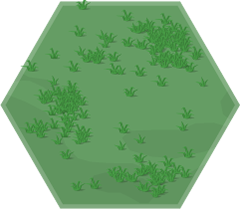
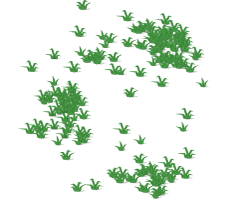
split grass

diff --git a/js/pixi.js b/js/pixi.js
@@ -63,6 +63,7 @@ loader
 		{name:'tile_forest_2', url:'img/tile_forest_2.png'},
 		{name:'tile_forest_3', url:'img/tile_forest_3.png'},
 		// {name:'tile_forest_4', url:'img/tile_forest_4.png'},
+		{name:'tile_grass_base', url:'img/tile_grass_base.png'},
 		{name:'tile_grass_1', url:'img/tile_grass_1.png'},
 		{name:'tile_grass_2', url:'img/tile_grass_2.png'},
 		{name:'tile_grass_3', url:'img/tile_grass_3.png'},
@@ -1513,6 +1514,7 @@ function createTile(item, itemIndex){
 			break;
 		case 3:
 			mapTile = new PIXI.Sprite(resources['tile_grass_' + randTile].texture);
+			mapBase = new PIXI.Sprite(resources['tile_grass_base' + randTile].texture);
 			break;
 		case 4:
 			mapTile = new PIXI.Sprite(resources['tile_bamboo_' + randTile].texture);
@@ -1559,7 +1561,7 @@ function createTile(item, itemIndex){
 		default:
 			statusEffectIcon = new PIXI.Sprite(resources.tile_black.texture);	
 	}
-	if(item.id == 1 || item.id == 2 || item.id == 6){
+	if(item.id == 1 || item.id == 2 || item.id == 3 || item.id == 6){
 		mapBase.scale.set(sizeScale);
 		mapBase.anchor.set(0,1);
 		tileImage.addChild(mapBase);
